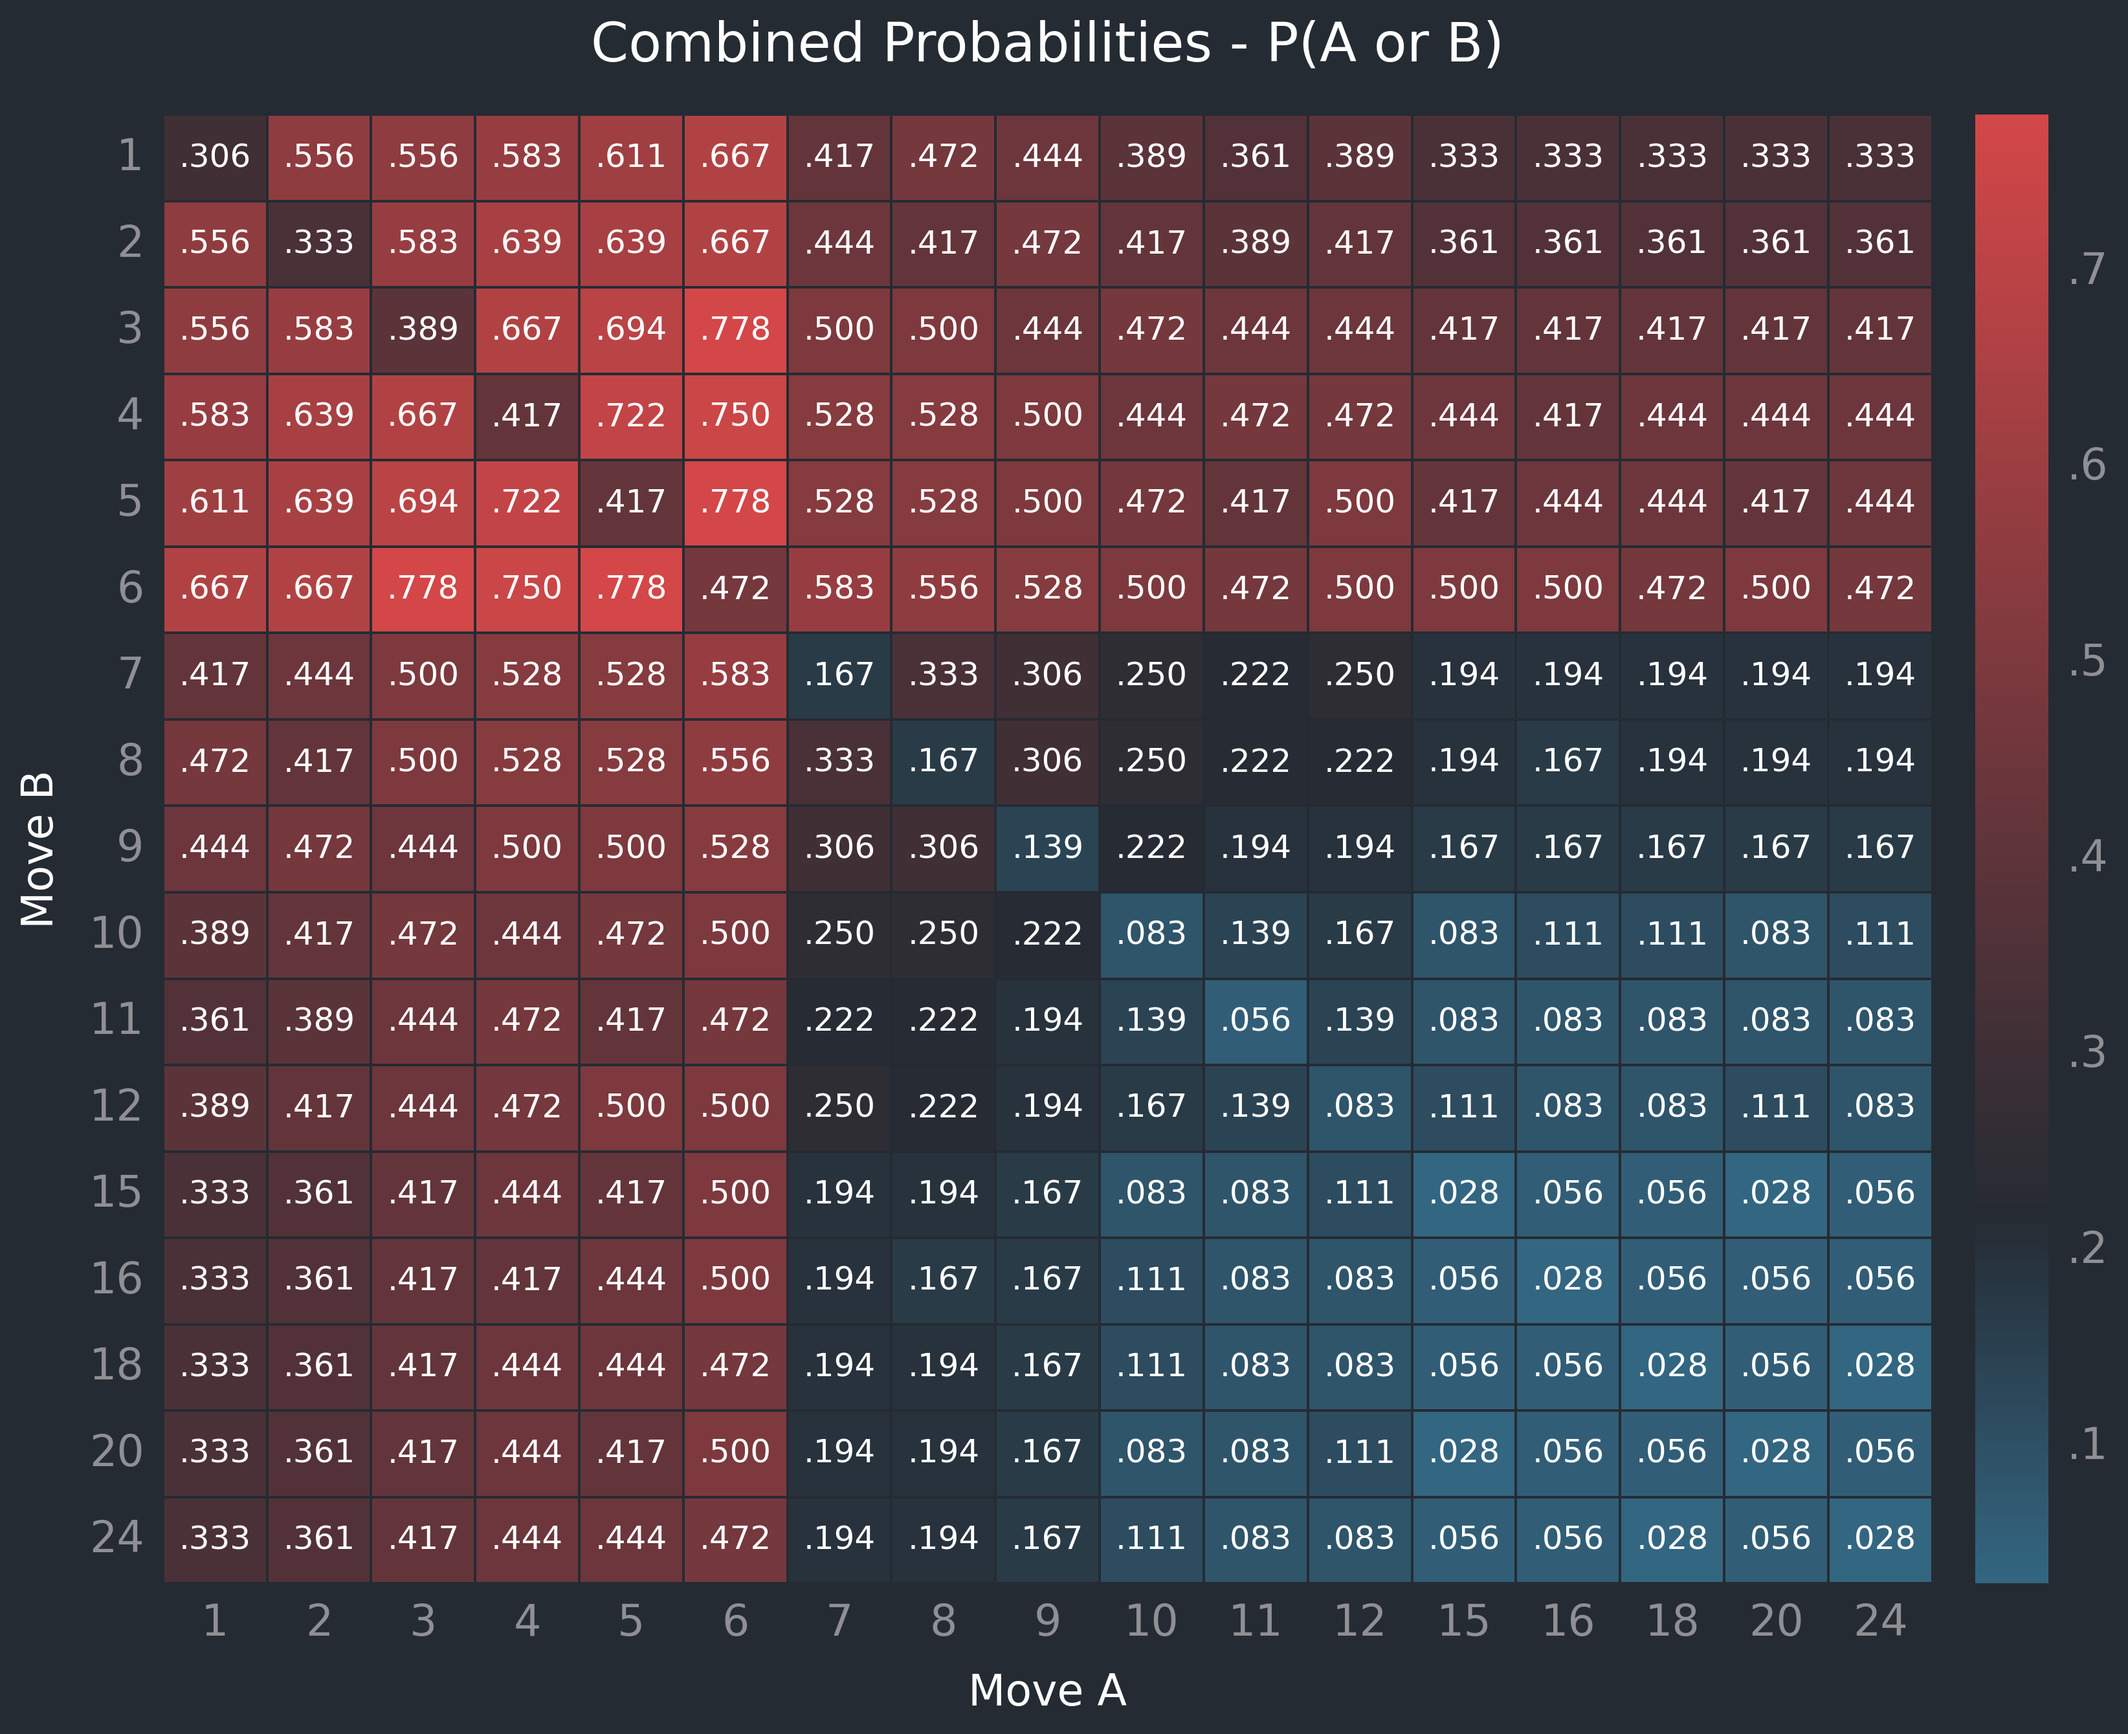
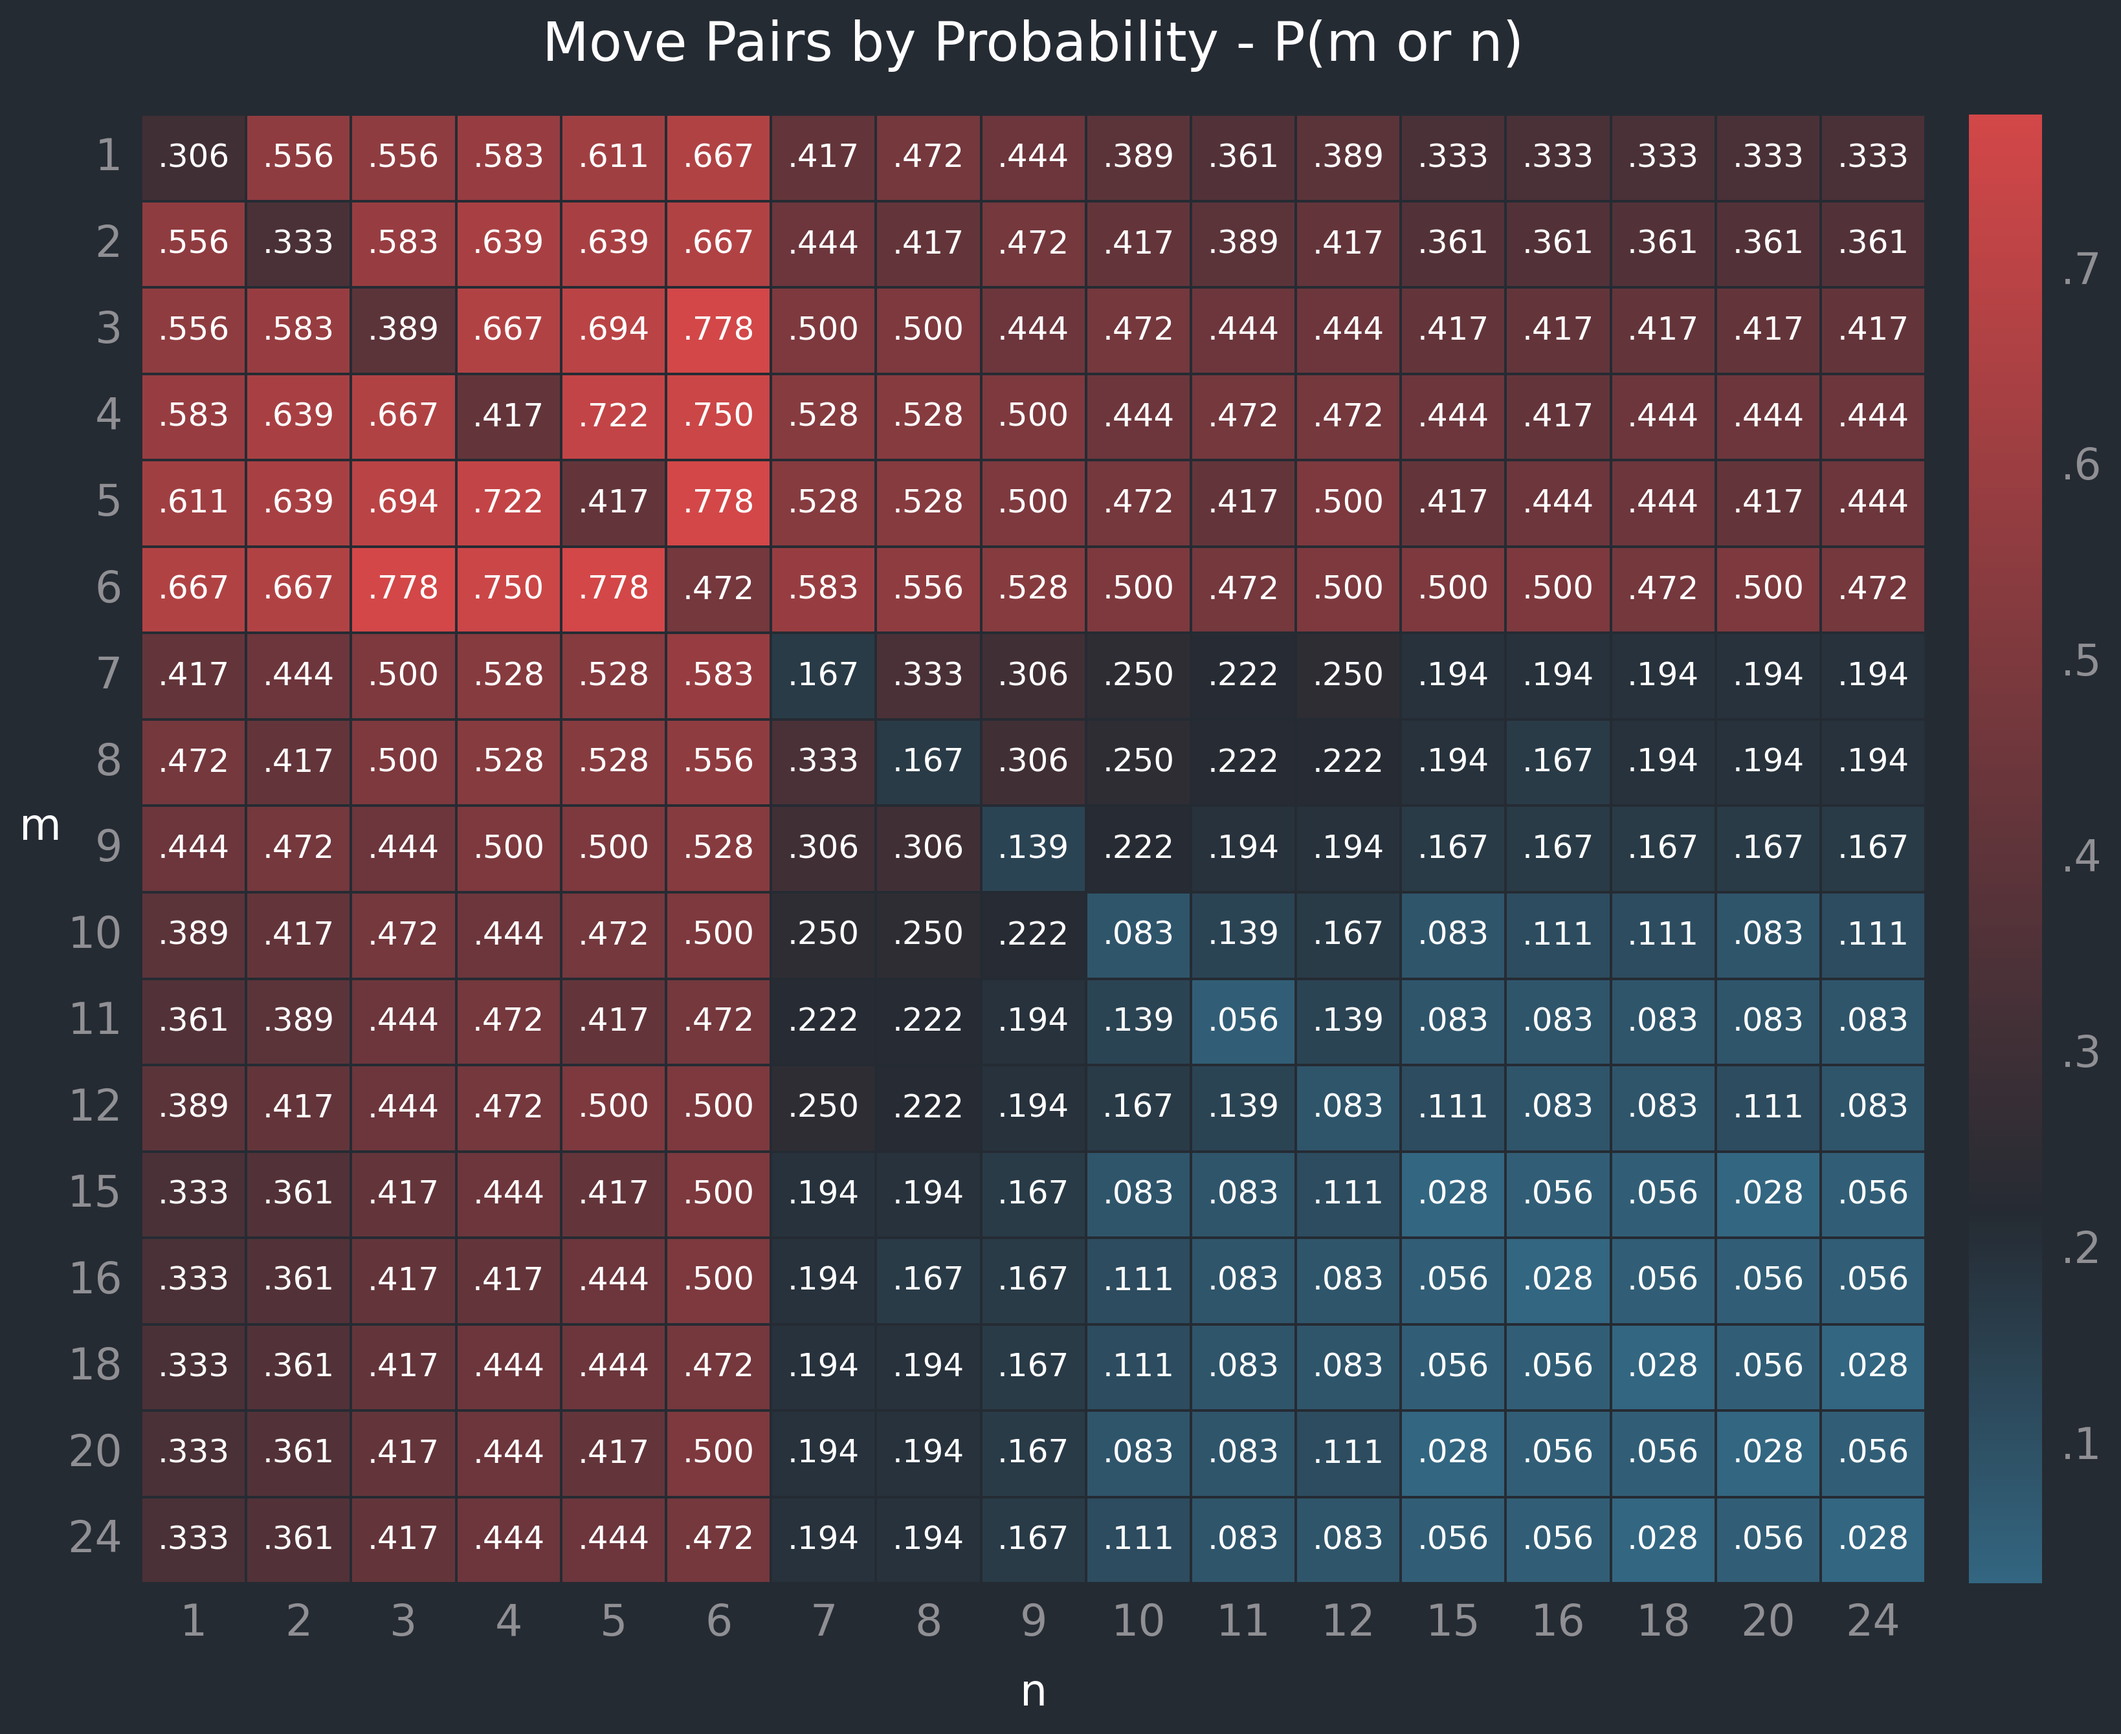
update plots

diff --git a/src/plots/plot_combined_probs.py b/src/plots/plot_combined_probs.py
@@ -58,16 +58,17 @@ cbar = ax.collections[0].colorbar
 cbar.ax.tick_params(right=False)
 
 # Set descriptors
-hmap.set_title("Combined Probabilities - P(A or B)",
+hmap.set_title("Move Pairs by Probability - P(m or n)",
               fontdict={"size": 20,
                         "color": palette["light"]},
               pad=20)
-hmap.set_xlabel("Move A",
+hmap.set_xlabel("n",
                fontdict={"size": 16, "color": palette["light"]},
                labelpad=10)
-hmap.set_ylabel("Move B",
+hmap.set_ylabel("m",
                fontdict={"size": 16, "color": palette["light"]},
-               labelpad=10)
+               labelpad=10,
+               rotation=0)
 
 plt.xticks(fontsize=16, color=palette["stone"])
 plt.yticks(fontsize=16, color=palette["stone"], rotation=0)
@@ -77,8 +78,8 @@ cbar.set_ticks([0.1, 0.2, 0.3, 0.4, 0.5, 0.6, 0.7])
 cbar.set_ticklabels([".1", ".2", ".3", ".4", ".5", ".6", ".7"])
 
 plt.tight_layout()
-fig.savefig("../images/combined_probability.png", 
-            dpi=300,
-            bbox_inches="tight")
+# fig.savefig("../images/combined_probability.png", 
+#             dpi=300,
+#             bbox_inches="tight")
 
 plt.show()

diff --git a/src/plots/plot_standard_probs.py b/src/plots/plot_standard_probs.py
@@ -38,16 +38,17 @@ sns.despine(offset=10)
 ax.tick_params(left=False, bottom=False)
 
 # Set descriptors
-bar.set_title("Backgammon Moves by Probability",
+bar.set_title("Moves by Probability - P(n)",
               fontdict={"size": 20,
                         "color": palette["light"]},
               pad=20)
-bar.set_xlabel("Move (Number of Spaces)",
+bar.set_xlabel("n",
                fontdict={"size": 16, "color": palette["light"]},
                labelpad=10)
-bar.set_ylabel("Probability",
+bar.set_ylabel("P(n)",
                fontdict={"size": 16, "color": palette["light"]},
-               labelpad=10)
+               labelpad=10, 
+               rotation=0)
 plt.xticks(fontsize=16, color=palette["stone"])
 plt.yticks(fontsize=16, color=palette["stone"])
 
